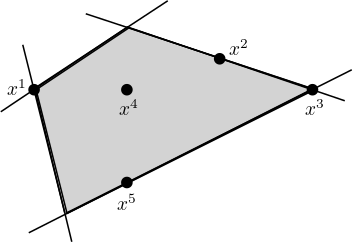
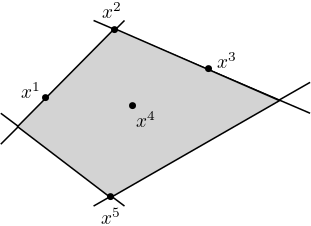
altera_figuras_e_definicao_poliedral

diff --git a/Texto_TCC_I.tex b/Texto_TCC_I.tex
@@ -464,7 +464,7 @@ Quando as desigualdades na \Cref{defi:minimizador_local_global} forem estritas p
 
 \begin{figure}[!h] 
 	\centering
-	\includegraphics[width=0.80\textwidth]{grafico_minimo_local_global}
+	\includegraphics[width=0.86\textwidth]{grafico_minimo_local_global}
 	\caption{ Mínimo local e mínimo global em uma dimensão. \label{fig:grafico_minimo_local_global}}
 \end{figure}
 
@@ -772,7 +772,7 @@ Para tanto, associado a $\Omega$ temos o conjunto de soluções do sistema homog
 \begin{figure}[!h] 
 	\centering
 	\includegraphics[width=0.60\textwidth]{nucleoA_paralelo_S}
-	\caption{Fonte: \textcite{Ana1994} \label{fig:nucleoA_paralelo_S}}
+	\caption{ Núcleo de uma matriz. \\ Fonte: \textcite{Ana1994} \label{fig:nucleoA_paralelo_S}}
 \end{figure}
 
 
@@ -1039,21 +1039,30 @@ Vamos considerar agora problemas da forma
 \]
 em que $x \in \RR^{n}$ e $A \in \RR^{m\times n}$. Como na seção anterior, estamos interessados nesse primeiro momento em analisar a região de factibilidade e determinar as direções factíveis, que são aquelas em que há espaço para se movimentar dentro da região $\Omega$. 
 
-Denotando cada linha da matriz $A$ da forma $a_{i}^{T} = (a_{i1} , a_{i2} , \ldots , a_{in})$, podemos caracterizar o conjunto factível da seguinte forma
+Denotando cada linha da matriz $A$ da forma $a_{i\cdot}^{T} = (a_{i1} , a_{i2} , \ldots , a_{in})$, podemos caracterizar o conjunto factível da seguinte forma
 \[
-\Omega = \{ x\in \RR^{n} \mid a_{i}^{T}x \leq b_{i} \ \text{para todo} \ i \in \{ 1,2, \ldots , m \} \} .
+\Omega = \{ x\in \RR^{n} \mid a_{i\cdot}^{T}x \leq b_{i} \ \text{para todo} \ i \in \{ 1,2, \ldots , m \} \} .
 \]
 
-Desse modo, cada uma das $m$ desigualdades $a_{i}^{T}x \leq b_{i}$ define em $\RR^{n}$ um semiespaço. O hiperplano divisor é $a_{i}^{T}x = b_{i}$ e o semiespaço definido é aquele que está do lado contrário à direção apontada pelo vetor $a_{i}$. Assim, a região $\Omega$ consiste na instersecção dos $m$ semiespaços. Em alguns casos, como representado na \Cref{fig:regiao_factivel_poliedro}, $\Omega$ é um poliedro em $\RR^{n}$.
+Desse modo, cada uma das $m$ desigualdades $a_{i\cdot}^{T}x \leq b_{i}$ define em $\RR^{n}$ um semiespaço. O hiperplano divisor é $a_{i\cdot}^{T}x = b_{i}$ e o semiespaço definido é aquele que está do lado contrário à direção apontada pelo vetor $a_{i}$. Assim, a região $\Omega$ consiste na instersecção dos $m$ semiespaços. Em alguns casos, como representado na \Cref{fig:regiao_factivel_poliedro}, $\Omega$ é um conjunto \emph{poliedral} em $\RR^{n}$.
 
 
 \begin{figure}[!h] 
 	\centering
 	\includegraphics[width=0.45\textwidth]{conjunto_factivel_poliedral}
-	\caption{Região de factibilidade. \\ Fonte: \textcite{Ana1994} \label{fig:regiao_factivel_poliedro}}
+	\caption{Conjunto factível poliedral. \\ Fonte: \textcite{Ana1994} \label{fig:regiao_factivel_poliedro}}
 \end{figure}
 
-Um conceito fundamental para formular as condições de otimalidade e que fornece uma grande quantidade de informações é o de \emph{restrição ativa}.
+\begin{defi} \label{defi:conjunto_poliedral}
+Dizemos que um conjunto é \emph{poliedral} quando ele pode ser representado como o conjunto de soluções de um sistema finito de equações e inequações lineares. Por exemplo:
+\[
+D = \{ x\in \RR^{n} \mid Ax=b, \ Wx \leq c \} ,
+\] 
+em que $A\in \RR^{m\times n}$, $W\in \RR^{p\times n}$, $b\in \RR^{m}$ e $c\in \RR^{p}$. Neste contexto, dizemos que $h:\RR^{n} \rightarrow \RR^{m}$, $h(x) = Ax-b$, é uma \emph{função afim}. Assim como $g:\RR^{n} \rightarrow \RR^{p}$, dada por $g(x)=Wx-c$.
+\end{defi}
+
+
+Por conseguinte, um conceito fundamental para formular as condições de otimalidade e que fornece uma grande quantidade de informações é o de \emph{restrição ativa}.
 
 \begin{defi}
 Dado $\xbar \in \Omega$, dizemos que a restrição de desigualdade $a_{i}^{T}\bar{x} \leq b_{i}$ que corresponde ao índice $i\in \{ 1,2, \ldots , m\}$ é \emph{ativa} no ponto $\xbar$ quando $a_{i}^{T}\bar{x} = b_{i}$. Caso $a_{i}^{T}\bar{x} < b_{i}$ dizemos que a restrição é \emph{inativa} em $\xbar$. 
@@ -1067,15 +1076,16 @@ O conjunto dos índices das restrições de desigualdade ativas no ponto $\xbar 
 Por convenção, qualquer restrição de igualdade é considerada ativa em todo ponto factível.
 \end{obs}
 
-O conjunto das direções factíveis a partir de $x$ depende das restrições ativas nesse ponto, pois são elas que restringem o domínio de factibilidade na vizinhança de $x$, enquanto que as restrições inativas não possuem influência na vizinhança de $x$. Um exemplo é representado na \Cref{fig:restricoes_inativas}, em que é possível perceber que a solução $x^{*}$ não depende das restrições inativas $g_{2}, g_{3}$.
+A cada $x\in \Omega$ podemos associar um número $r(x)$, com $0\leq r(x) \leq m$, que representa a quantidade de restrições ativas em $x$. Assim, na \Cref{fig:restricoes_ativas} temos que $r(x^{1}) = 1$, $r(x^{2}) = 2$, $r(x^{3}) = 1$, $r(x^{4}) = 0$ e $r(x^{5}) = 2$.
 
 \begin{figure}[!h] 
 	\centering
 	\includegraphics[width=0.45\textwidth]{restricoes_ativas}
-	\caption{Restrições ativas e inativas. \\ Fonte: \textcite{luenberger2008linear} \label{fig:restricoes_inativas}}
+	\caption{Restrições ativas e inativas. \label{fig:restricoes_ativas}}
 \end{figure}
 
-Ademais, a cada $x\in \Omega$ podemos associar um número $r(x)$, com $0\leq r(x) \leq m$, que representa a quantidade de restrições ativas em $x$. O \Cref{teo:direcoes_factiveis_restricao_desigualdade} nos fornece uma caracterização das direções factíveis em $x$.
+Ademais, o conjunto das direções factíveis a partir de $x$ depende das restrições ativas nesse ponto, pois são elas que restringem o domínio de factibilidade na vizinhança de $x$, enquanto que as restrições inativas não possuem influência na vizinhança de $x$.
+O \Cref{teo:direcoes_factiveis_restricao_desigualdade} nos fornece uma caracterização das direções factíveis em $x$.
 
 \begin{teo} \label{teo:direcoes_factiveis_restricao_desigualdade}
 Considere $x\in \Omega$ tal que $r(x) = p$ com $0<p \leq m$. Um vetor $d \in \RR^{n}$ é uma direção factível em $x$ se, e somente se, $a_{i}^{T}d \leq 0$ para todo $i \in \mathcal{I} (x)$.
@@ -1101,10 +1111,10 @@ Por outro lado, se $i \notin \mathcal{I}(x)$, temos que $a_{i}^{T} x < b_{i}$. N
 	a_{i}^{T}x + \alpha a_{i}^{T}d = b_{i} ,
 	\]
 	e resolvendo para $\alpha$,
-	\[
+	\[ \label{eq:1_teo_direcoes_factiveis_restricao_desigualdade}
 	\alpha = \dfrac{b_{i} - a_{i}^{T}x}{a_{i}^{T}d}.
 	\]
-	Então, para $\alpha$ satisfazer todas as restrições $i \in \mathcal{M}-\mathcal{I}(x)$, é preciso tomar o mínimo. Assim, se definimos
+	Então, para $\alpha$ satisfazer todas as restrições $i \in \mathcal{M}-\mathcal{I}(x)$, é preciso tomar o mínimo de \eqref{eq:1_teo_direcoes_factiveis_restricao_desigualdade}. Assim, se definimos
 	\[
 	\tilde{\alpha} = \min_{i \in \mathcal{M}-\mathcal{I}(x) } \left( \dfrac{b_{i} - a_{i}^{T}x}{a_{i}^{T}d} \right) ,
 	\]
@@ -1113,7 +1123,7 @@ Por outro lado, se $i \notin \mathcal{I}(x)$, temos que $a_{i}^{T} x < b_{i}$. N
 Portanto, $d$ será uma direção factível em $x$.
 \end{proof}
 
-Ademais, interessados em saber quanto podemos andar sobre uma direção factível $d$ a partir de $x \in \Omega$, precisamos determinar o maior valor de $\alpha$ tal que $a_{i}^{T}(x + \alpha d) \leq b_{i}$, para todo $i\in \mathcal{M}$, o que equivale a determinar o menor valor de $\alpha$ para o qual $a_{i}^{T}(x+\alpha d) = b_{i}$, para algum $i\in \mathcal{M}$. Este valor é dado na demonstração do \Cref{teo:direcoes_factiveis_restricao_desigualdade}, em que se $i$ é tal que $a_{i}^{T}d \leq 0$, $\alpha$ pode ser arbitrariamente grande. E no caso em que $i$ é tal que $a_{i}^{T}d >0$, o valor procurado é
+Além disso, interessados em saber quanto podemos andar sobre uma direção factível $d$ a partir de $x \in \Omega$, precisamos determinar o maior valor de $\alpha$ tal que $a_{i}^{T}(x + \alpha d) \leq b_{i}$, para todo $i\in \mathcal{M}$, o que equivale a determinar o menor valor de $\alpha$ para o qual $a_{i}^{T}(x+\alpha d) = b_{i}$, para algum $i\in \mathcal{M}$. Este valor é dado na demonstração do \Cref{teo:direcoes_factiveis_restricao_desigualdade}, em que se $i$ é tal que $a_{i}^{T}d \leq 0$, $\alpha$ pode ser arbitrariamente grande. E no caso em que $i$ é tal que $a_{i}^{T}d >0$, o valor procurado é
 \[
 \tilde{\alpha} = \min_{i \in \mathcal{M}-\mathcal{I}(x) } \left( \dfrac{b_{i} - a_{i}^{T}x}{a_{i}^{T}d} \right) .
 \]
@@ -1121,9 +1131,7 @@ Ademais, interessados em saber quanto podemos andar sobre uma direção factíve
 
 \subsubsection{Condições Necessárias de Primeira Ordem}
 
-
-Desenvolver a noção de direções factíveis para avaliar a estrutura do conjunto factível na vizinhança de uma solução é fundamental para determinar as condições de otimalidade no caso de problemas com restrições de desigualdade. Tendo feito isso, é necessário agora definir o conceito de direção de descida.
-
+No intuito de determinar as condições de otimalidade no caso de problemas com restrições de desigualdade, acabamos de desenvolver a noção de direções factíveis para avaliar a estrutura do conjunto factível na vizinhança de uma solução. Agora, é necessário definir o conceito de direção de descida.
 
 \begin{defi} \label{defi:direcao_de_descida}
 Dizemos que $d\in \RR^{n}$ é uma \emph{direção de descida} de $f:\RR^{n} \rightarrow \RR$ no ponto $\xbar \in \RR^{n}$, se existe $\varepsilon >0$ tal que
@@ -1239,12 +1247,12 @@ implicando em
 \[ \label{eq:2_condicao_necessaria_1ordem_restricao_desigualdade}
 \nabla f(x^{*})^{T}d = -d^{T}d = -\Vert d \Vert^{2} <0,
 \]
-e portanto, $d$ é uma direção de descida. Veja \Cref{fig:projecao_sobre_nucleo_teo_condicao_1ordem_desigualdade}.
+e portanto, $d$ é uma direção de descida. Veja \Cref{fig:projecao_gradiente_sobre_nucleoA}.
 
 \begin{figure}[!h] 
 	\centering
-	\includegraphics[width=0.60\textwidth]{projecao_sobre_nucleo_teo_condicao_1ordem_desigualdade}
-	\caption{Fonte: \textcite{Ana1994} \label{fig:projecao_sobre_nucleo_teo_condicao_1ordem_desigualdade}}
+	\includegraphics[width=0.55\textwidth]{projecao_gradiente_sobre_nucleoA}
+	\caption{Projeção de $-\nabla f(x)$ sobre o $\mathcal{N}(\tilde{A_{\mathcal{I}}})$. \\ Fonte: \textcite{Ana1994}. \label{fig:projecao_gradiente_sobre_nucleoA}}
 \end{figure}
 Ademais, vejamos que $d$ também é uma direção factível. Com efeito,
 \[
@@ -1258,7 +1266,7 @@ Então,
 \[
 \nabla f(x^{*})^{T}d = \lambda_{j} a_{i_{j}}^{T} d.
 \]
-Usando \eqref{eq:2_condicao_necessaria_1ordem_restricao_desigualdade} e como $\lambda_{j} >0$, obtemos
+Usando \eqref{eq:2_condicao_necessaria_1ordem_restricao_desigualdade} e o fato de $\lambda_{j} >0$, obtemos
 \[
 a_{i_{j}}^{T} d <0.
 \]
@@ -1282,13 +1290,13 @@ Sejam $f \in \mathcal{C}^{2}$, $x^{*}$ um minimizador local do problema \eqref{p
 \end{enumerate}
 \end{teo}
 \begin{proof}
-Perceba que se $x^{*}$ é minimizador local de \eqref{problema_geral_minimizacao_desigualdade}, então pelo \Cref{teo:condicao_necessaria_1ordem_restricao_desigualdade} existe $\boldsymbol{\lambda} \in \RR^{r(x^{*})}$ tal que 
+Perceba que se $x^{*}$ é minimizador local de \eqref{problema_geral_minimizacao_desigualdade}, então pelo \Cref{teo:condicao_necessaria_1ordem_restricao_desigualdade}, existe $\boldsymbol{\lambda} \in \RR^{r(x^{*})}$ tal que 
 \[
-\nabla f(x^{*}) = A_{\mathcal{I}}^{T} \boldsymbol{\lambda} \ \text{e} \ \lambda_{i} \leq 0
+\nabla f(x^{*}) = A_{\mathcal{I}}^{T} \boldsymbol{\lambda} \ \text{e} \ \lambda_{i} \leq 0,
 \] 
 para todo $i \in \mathcal{I}(x^{*})$.
 
-Por conseguinte, se $x^{*}$ é minimizador local de \eqref{problema_geral_minimizacao_desigualdade}, em particular ele é solução do seguinte problema com restrições de igualdade
+Por conseguinte, se $x^{*}$ é minimizador local de \eqref{problema_geral_minimizacao_desigualdade}, em particular, ele é solução do seguinte problema com restrições de igualdade
 \[ 
 \begin{aligned}
 \min_{x} & \quad f(x) \\
